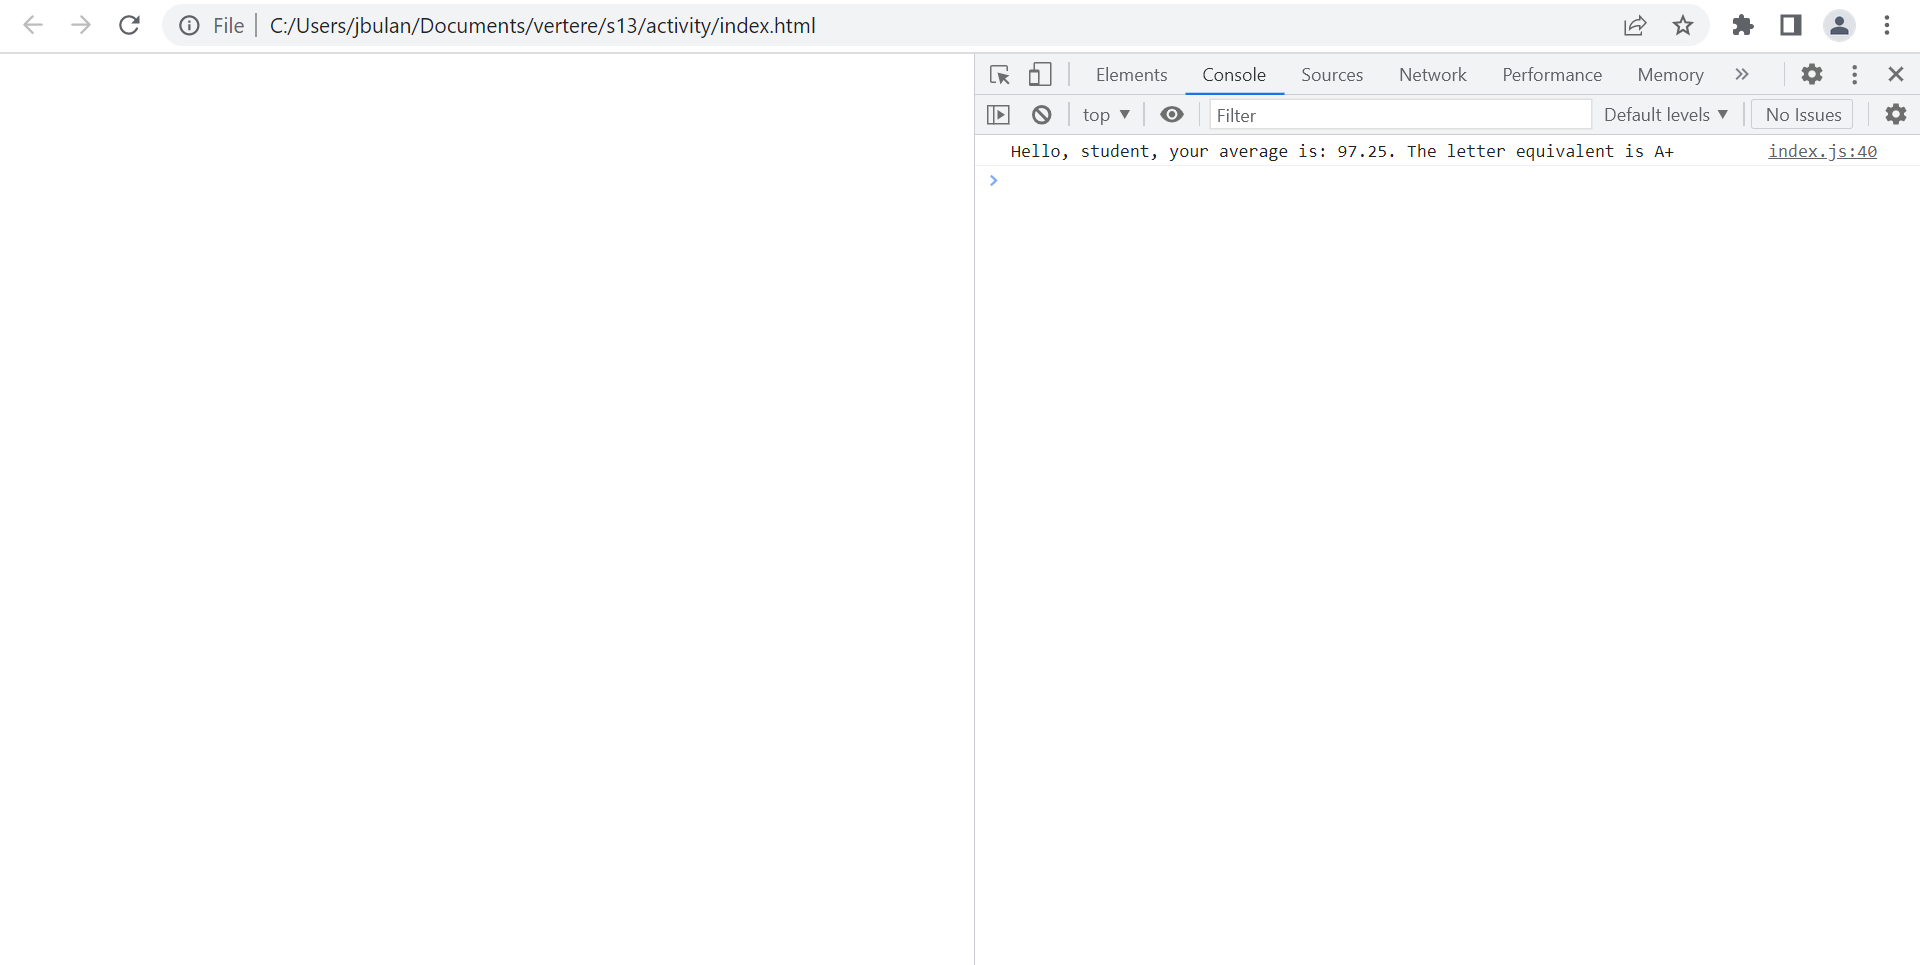
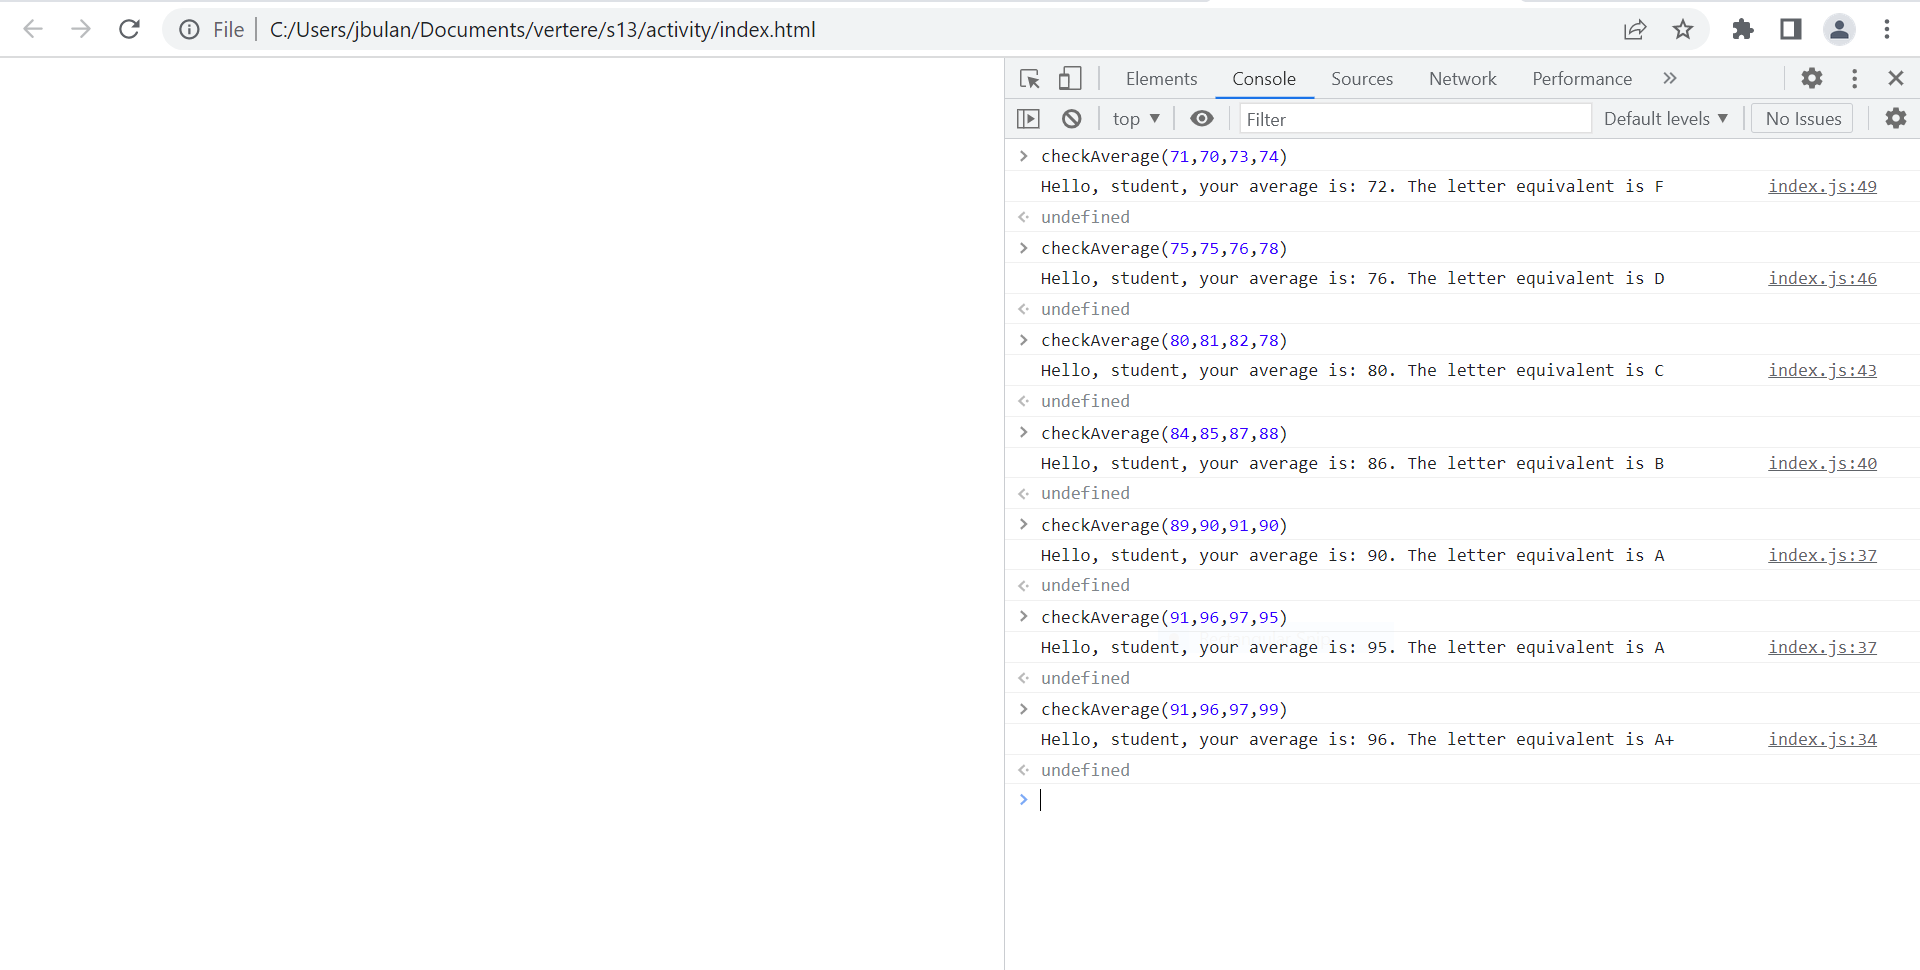
updated image and expected output

diff --git a/index.js b/index.js
@@ -27,14 +27,8 @@ function loginPrompt(username, password, role){
 loginPrompt();
 let userLogin = loginPrompt(username, password, role);
 
-// function computeAverage(num1, num2, num3, num4){
-// 	sum = num1 + num2 + num3 + num4;
-// 	average = sum/4;
-// };
-
 function checkAverage(num1, num2, num3, num4){
-	sum = num1 + num2 + num3 + num4;
-	average = sum/4;
+	average = Math.round((num1 + num2 + num3 + num4)/ 4);
 
 	if(average >= 96){
 		console.log("Hello, student, your average is: " + average + ". The letter equivalent is A+");
@@ -55,6 +49,4 @@ function checkAverage(num1, num2, num3, num4){
 		console.log("Hello, student, your average is: " + average + ". The letter equivalent is F");
 	}
 };
-
 checkAverage();
-let grades = checkAverage(98, 97, 96, 98);
